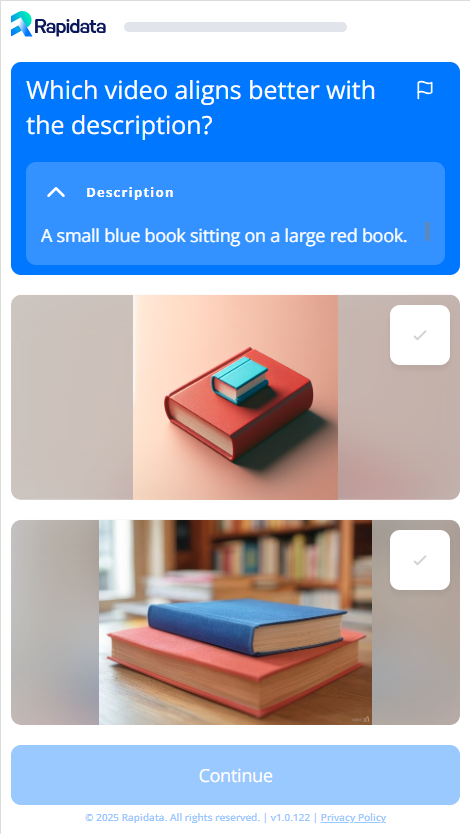
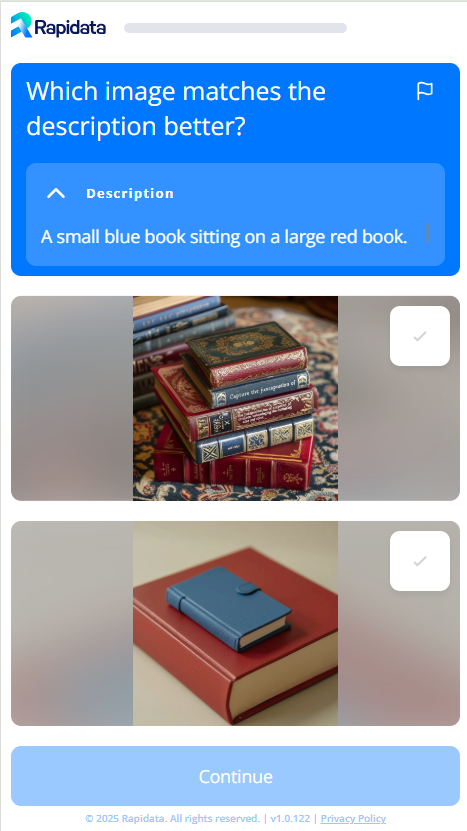
adjustements

diff --git a/docs/quickstart.md b/docs/quickstart.md
@@ -4,7 +4,7 @@ Directly ask real humans to compare your data. This guide will show you how to c
 
 There are many other types of orders you can create which you can find in the examples on the [Overview](index.md).
 
-We will create an order, using 2 AI generated images to compare them against eachother based on which image followed the prompt more accurately.
+We will create an order assessing image-prompt-alignment, using 2 AI generated images and compare them against eachother based on which image followed the prompt more accurately.
 
 Our annotators will then label the data according to the instruction we provided.
 
@@ -48,12 +48,12 @@ All order-related operations are performed using rapi.order.
 1. Here we create a compare order with a name and the instruction / question we want to ask. Additionally we provide the prompt as a context:
 
 ```py
-rapi.order.create_compare_order(
+order = rapi.order.create_compare_order(
     name="Example Alignment Order",
-    instruction="Which video aligns better with the description?",
+    instruction="Which image matches the description better?",
     contexts=["A small blue book sitting on a large red book."],
-    datapoints=[["https://assets.rapidata.ai/aurora-20-1-25_37_4.png", 
-                "https://assets.rapidata.ai/dalle-3_37_2.jpg"]],
+    datapoints=[["https://assets.rapidata.ai/midjourney-5.2_37_3.jpg", 
+                "https://assets.rapidata.ai/flux-1-pro_37_0.jpg"]],
 )
 ```
 The parameters are as follows:
@@ -61,7 +61,7 @@ The parameters are as follows:
 - `name`: The name of the order. This is used to identify the order in the [Rapidata Dashboard](https://app.rapidata.ai/dashboard/orders). This name is also be used to find the order again later.
 - `instruction`: The instruction you want to show the annotators to select the image by.
 - `contexts`: The prompt that will be shown along side the two images and the instruction.
-- `datapoints`: The image pairs we want to compare. This can be any public URL (that points to an image, video or audio) or a local file path. This is a list of all datapoints you want to compare. Each datapoint consists of 2 files that are compared, as well as an optional context (which in this case is the prompt). The same instruction will be shown for each datapoint. There is a limit of 100 datapoints per order. If you need more than that, you can reach out to us at <info@rapidata.ai>.
+- `datapoints`: The image pairs we want to compare (order is randomized for every annotator). This can be any public URL (that points to an image, video or audio) or a local file path. This is a list of all datapoints you want to compare. Each datapoint consists of 2 files that are compared, as well as an optional context (which in this case is the prompt). The same instruction will be shown for each datapoint. There is a limit of 100 datapoints per order. If you need more than that, you can reach out to us at <info@rapidata.ai>.
 
 Optionally you may add additional specifications with the other parameters. As an example, the `responses_per_datapoint` that specifies how many responses you want per datapoint<sup>1</sup>.
 

diff --git a/docs/index.md b/docs/index.md
@@ -24,10 +24,10 @@ Set up your environment and make your first API request in minutes.
 
     order = rapi.order.create_compare_order(
         name="Example Alignment Order",
-        instruction="Which video aligns better with the description?",
+        instruction="Which image matches the description better?",
         contexts=["A small blue book sitting on a large red book."],
-        datapoints=[["https://assets.rapidata.ai/aurora-20-1-25_37_4.png", 
-                    "https://assets.rapidata.ai/dalle-3_37_2.jpg"]],
+        datapoints=[["https://assets.rapidata.ai/midjourney-5.2_37_3.jpg", 
+                    "https://assets.rapidata.ai/flux-1-pro_37_0.jpg"]],
     ).run()
 
     order.display_progress_bar()
